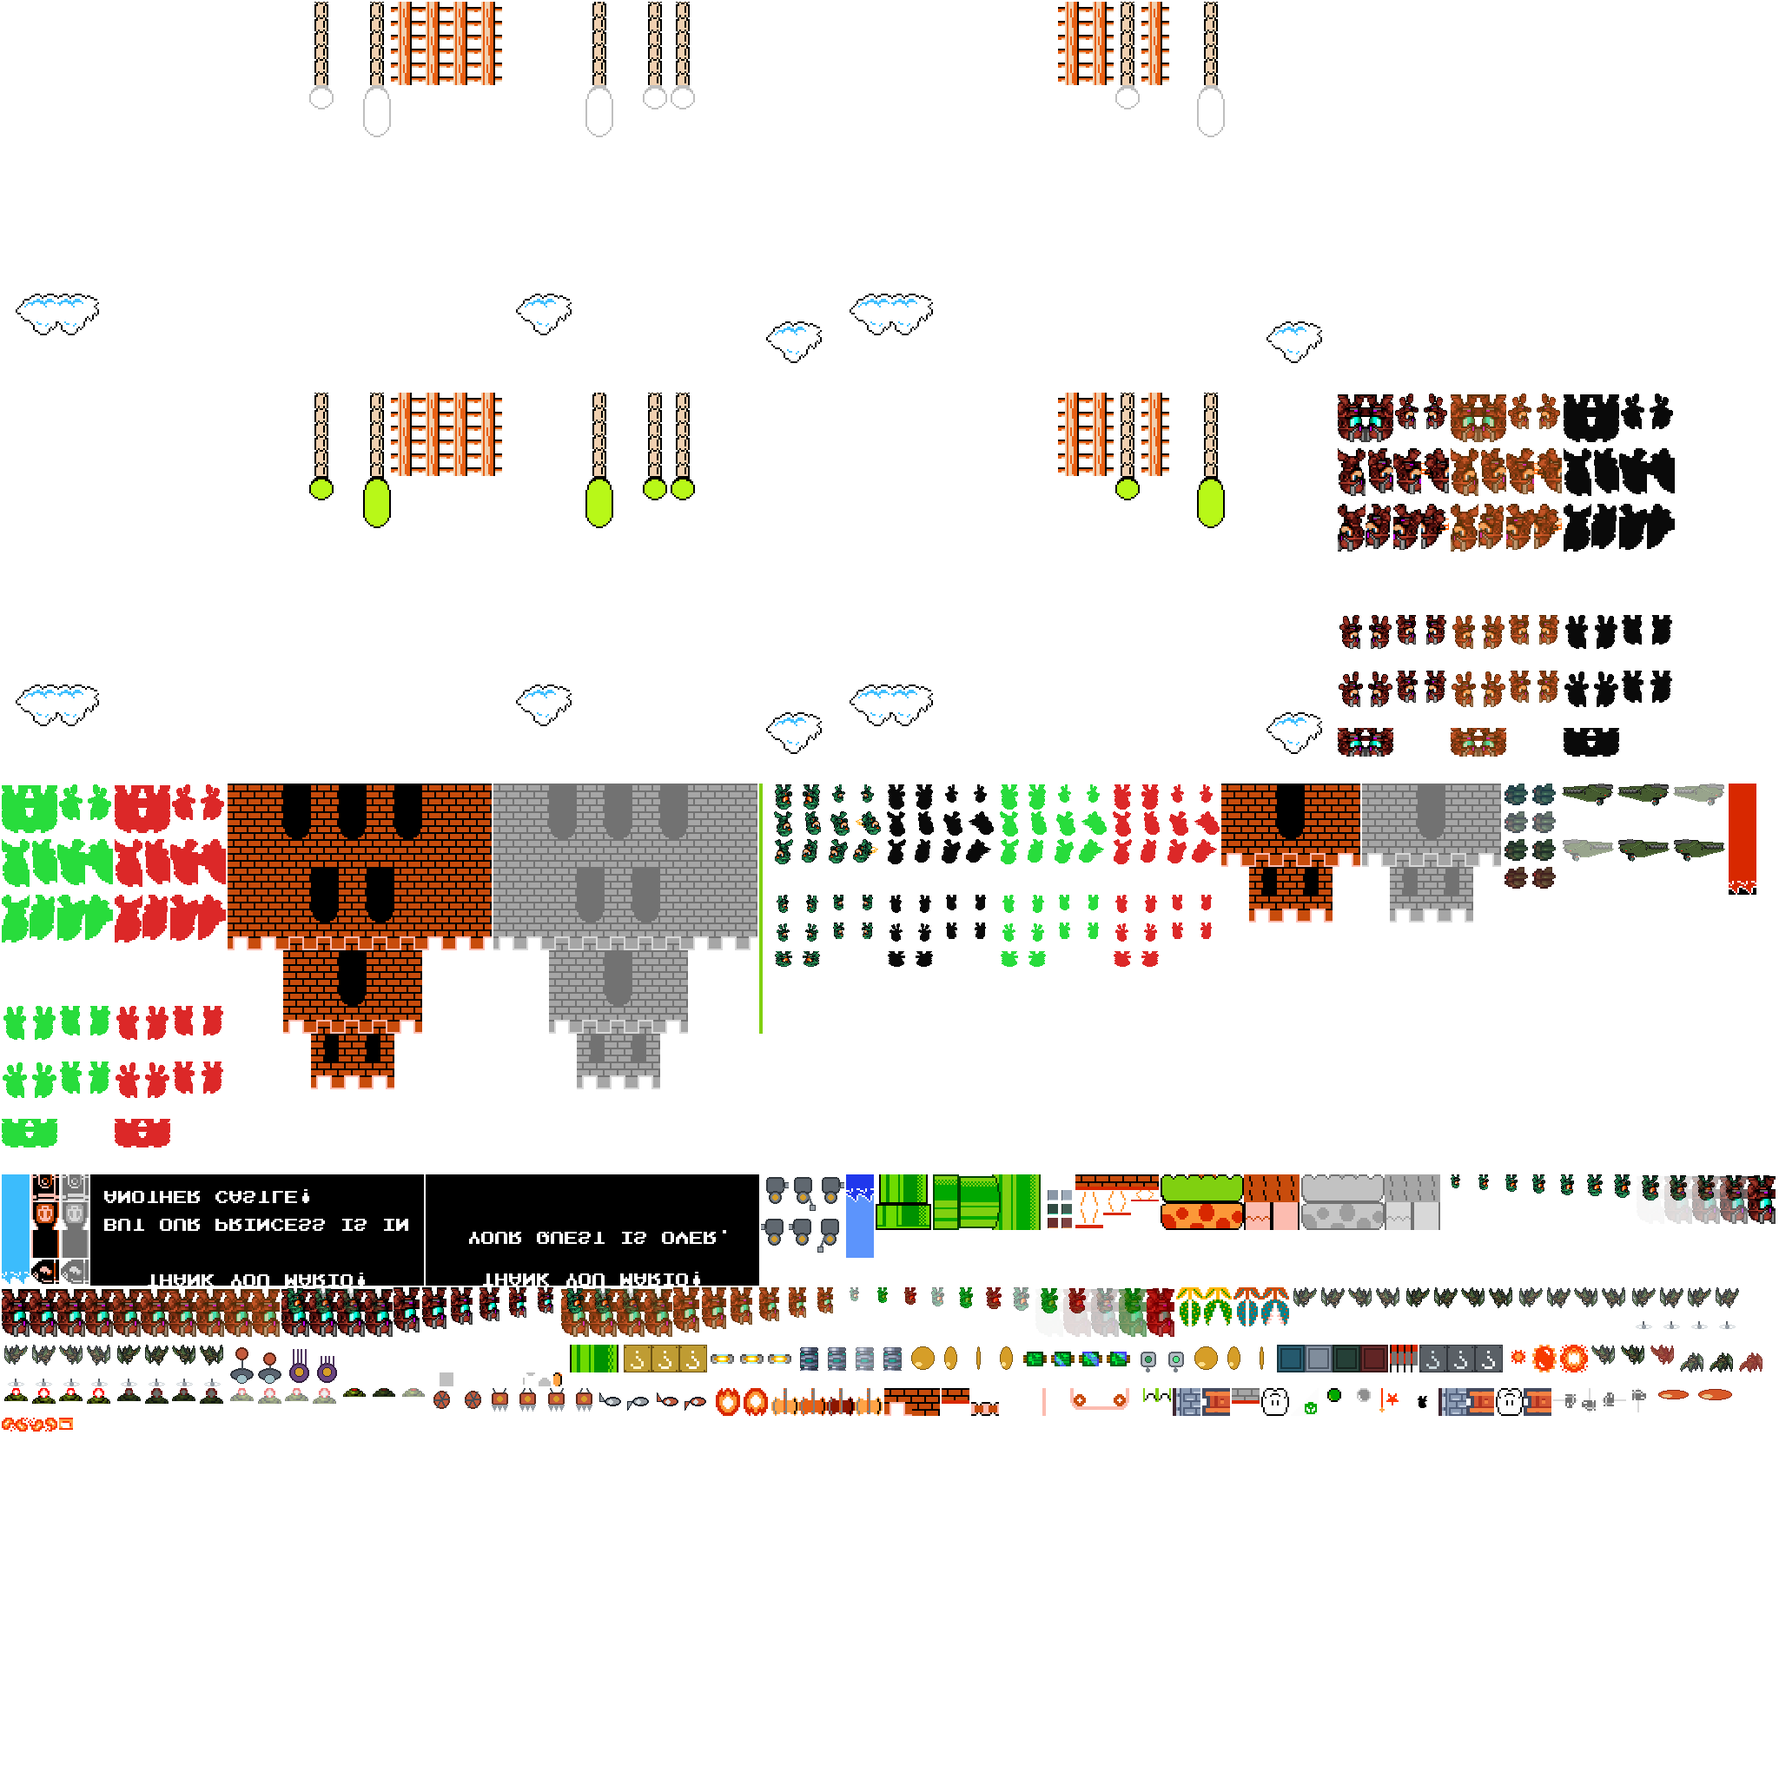
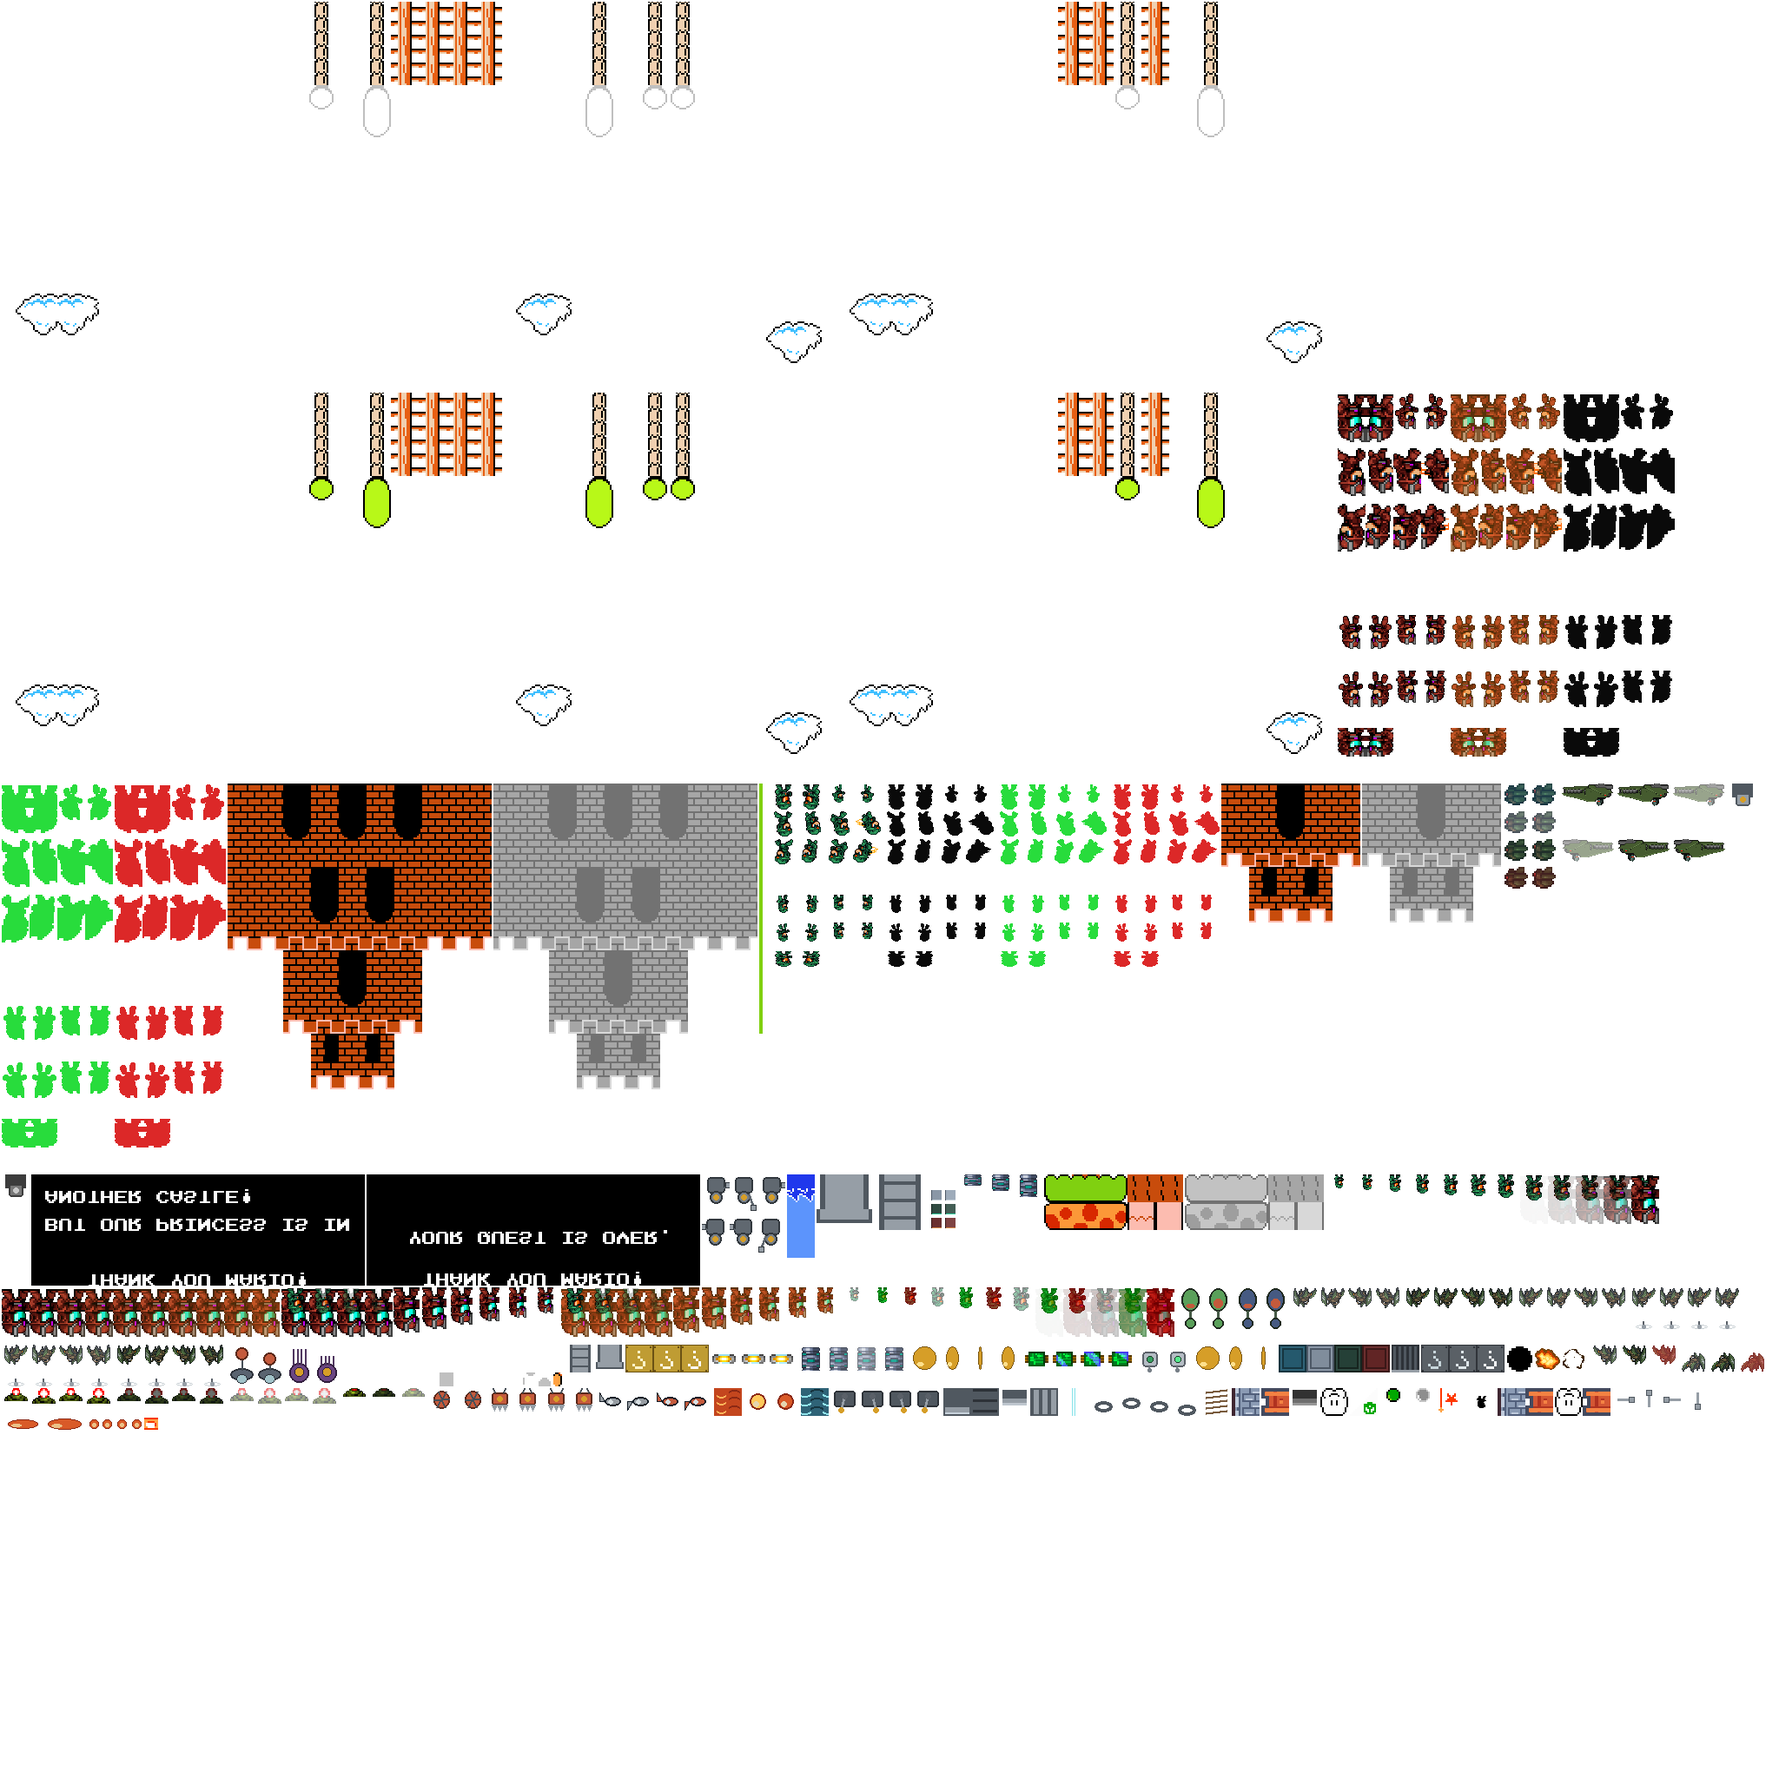
R.4: mechanisms/hazards/connective scenery (pumps, pipes, axe, wall, etc.)
fire_ball, lava/lava_ball/water, axe (a console/switch icon, per
KENNEY_ALL_IN_ONE_INDEX.md Sec3's own recommendation), wall,
rocket_launcher(+bw), bouncer(+bw)/spring (spring reuses the Charge coil
motif per the guide's own suggestion), wooden_bridge/white_line/chain/
rope/bridge_blocks (procedural connective geometry - chain/rope are
grep-confirmed dead code, done anyway for completeness), the 6-variant pump
family + hori_image (procedural riveted pipe, no clean pack source for
plain pipe segments), plant/plant_dark (procedural pipe creature),
explosion (real source match - Robot Master Series' own explode-Sheet,
verified crops caught the sheet's fully-faded last frame before it shipped
empty), bw_hammer (thrown wrench, matches Monkey's wrench prop).

Dimensions for every asset confirmed by reading the actual consuming class
(FireBall/LavaBall/Axe/LevelLoader's spawnWall/spawnRocketLauncher/Spring/
Pump/PiranhaPlant/MarioTileRegistry's HoriImage handler/Explosion/Hammer),
not assumed from the guide table.

Packed (96/122 overlay, up from 69/122, same page/region counts) and
compiled clean. Not yet on-device tested.

Claude-Session: https://claude.ai/code/session_01AwSuhSoywzR375iAH3BYRv

diff --git a/docs/assets/mario-sprites/ampere-staging/build_r4_mechanisms.py b/docs/assets/mario-sprites/ampere-staging/build_r4_mechanisms.py
@@ -1,0 +1,339 @@
+"""
+Step R.4, tier-3/4 table: mechanisms/hazards/connective scenery
+(docs/mario/MARIO_RESKIN_JUNIOR_DEV_GUIDE.md Sec5).
+
+Covers: fire_ball, lava/lava_ball/water, axe, wall, rocket_launcher(+bw),
+bouncer(+bw)/spring, wooden_bridge/white_line/chain/rope/bridge_blocks,
+pump family (6 theme variants), plant/plant_dark, hori_image, explosion,
+bw_hammer.
+
+Every dimension below is taken from reading the actual consuming Java class
+(FireBall/LavaBall/Axe/LevelLoader.spawnWall/spawnRocketLauncher/
+Spring/Pump/PiranhaPlant/MarioTileRegistry's HoriImage handler/Explosion/
+Hammer), not assumed from the guide table alone - see chat history for the
+exact grep/read-through. explosion reuses Robot Master Series' own
+explode-Sheet (a real source match, not procedural, per the guide's own
+recommendation for that one asset). Everything else here has no clean
+source-pack match (pipes/wall/bridge pieces are simple connective geometry,
+not the kind of thing a character-focused robot pack ships) - procedural,
+consistent with the panel/rivet motif already established for terrain.
+"""
+import sys
+sys.path.insert(0, "C:/workspace/morsecode/docs/assets/mario-sprites/ampere-staging")
+from sprite_tools import tint, mirror, build_sheet, glow_pulse, verified_crop, place_content
+from PIL import Image, ImageDraw
+import os
+
+OUT = "C:/workspace/morsecode/docs/assets/mario-sprites/reskin-source"
+ROBOT_PACK = "C:/workspace/robot_series_base_pack"
+
+METAL = (150, 158, 166)
+METAL_DARK = (80, 88, 96)
+METAL_DARKER = (45, 50, 56)
+
+# Reuse the exact per-theme accents already established for terrain (base,
+# dark, light) - keyed the same way pump's regionFor() picks a theme.
+THEME_ACCENT = {
+    "": (138, 151, 166),
+    "_castle": (217, 140, 74),
+    "_sea": (127, 224, 232),
+}
+
+
+def canvas(w, h):
+    return Image.new("RGBA", (w, h), (0, 0, 0, 0))
+
+
+def rect(im, x0, y0, x1, y1, color):
+    d = ImageDraw.Draw(im)
+    d.rectangle((x0, y0, x1 - 1, y1 - 1), fill=color + (255,))
+
+
+# --------------------------------------------------------------- fire_ball
+
+def build_fire_ball():
+    print("FireBall (projectile, 16x16/frame x4 - verified against FireBall.java):")
+    def frame(i):
+        im = canvas(16, 16)
+        d = ImageDraw.Draw(im)
+        wob = [0, 1, 0, -1][i % 4]
+        d.ellipse((3 - wob, 3, 13 - wob, 13), fill=(217, 90, 40, 255), outline=(140, 40, 20, 255))
+        d.ellipse((6 - wob, 5, 10 - wob, 9), fill=(255, 200, 120, 230))
+        return im
+
+    build_sheet(16, 16, [frame(i) for i in range(4)], 4, 1, f"{OUT}/FireBall.png")
+
+
+# -------------------------------------------------------- lava/lava_ball/water
+
+def build_lava():
+    print("Lava/LavaBall/Water (procedural hazard tiles):")
+    im = canvas(32, 32)
+    d = ImageDraw.Draw(im)
+    rect(im, 0, 0, 32, 32, (196, 70, 30))
+    for i, y in enumerate((6, 16, 24)):
+        d.arc((2, y - 4, 14, y + 4), 200, 340, fill=(255, 180, 90, 255), width=2)
+        d.arc((16, y - 3, 30, y + 5), 20, 160, fill=(140, 40, 20, 255), width=2)
+    im.save(f"{OUT}/Lava.png")
+    print("wrote", f"{OUT}/Lava.png")
+
+    def ball(rising):
+        b = canvas(32, 32)
+        d2 = ImageDraw.Draw(b)
+        c = (255, 200, 90, 255) if rising else (217, 90, 40, 255)
+        d2.ellipse((7, 7, 25, 25), fill=c, outline=(140, 40, 20, 255), width=2)
+        d2.ellipse((11, 10, 17, 16), fill=(255, 230, 170, 220))
+        return b
+
+    build_sheet(32, 32, [ball(True), ball(False)], 2, 1, f"{OUT}/LavaBall.png")
+
+    water = canvas(32, 32)
+    d3 = ImageDraw.Draw(water)
+    rect(water, 0, 0, 32, 32, (47, 99, 119))
+    for y in (5, 15, 25):
+        d3.arc((-4, y - 4, 12, y + 4), 200, 340, fill=(127, 224, 232, 220), width=2)
+        d3.arc((10, y - 3, 26, y + 5), 20, 160, fill=(22, 53, 64, 255), width=2)
+        d3.arc((24, y - 4, 40, y + 4), 200, 340, fill=(127, 224, 232, 220), width=2)
+    water.save(f"{OUT}/Water.png")
+    print("wrote", f"{OUT}/Water.png")
+
+
+# --------------------------------------------------------------------- axe
+
+def build_axe():
+    print("Axe (bridge-cut lever -> console/switch icon, 32x32 x4, per KENNEY_ALL_IN_ONE_INDEX.md Sec3's own recommendation):")
+    def frame(pulled):
+        im = canvas(32, 32)
+        d = ImageDraw.Draw(im)
+        d.rounded_rectangle((4, 10, 28, 28), radius=3, fill=METAL_DARK + (255,), outline=METAL_DARKER + (255,), width=2)
+        lever_x = 20 if pulled else 12
+        d.line((16, 22, lever_x, 6), fill=METAL + (255,), width=3)
+        d.ellipse((lever_x - 3, 3, lever_x + 3, 9), fill=(214, 158, 40, 255))
+        d.ellipse((13, 19, 19, 25), fill=(90, 96, 104, 255))
+        return im
+
+    build_sheet(32, 32, [frame(False), frame(True), frame(True), frame(False)], 4, 1, f"{OUT}/Axe.png")
+
+
+# --------------------------------------------------------------------- wall
+
+def build_wall():
+    print("Wall (decorative vertical strip, 32x32 x2 - cap + repeating body):")
+    cap = canvas(32, 32)
+    rect(cap, 0, 0, 32, 32, METAL_DARK)
+    rect(cap, 2, 2, 30, 10, METAL)
+    rect(cap, 2, 2, 30, 4, (199, 210, 219))
+    body = canvas(32, 32)
+    rect(body, 0, 0, 32, 32, METAL_DARK)
+    for y in (4, 16, 28):
+        rect(body, 2, y, 30, y + 3, METAL_DARKER)
+    build_sheet(32, 32, [cap, body], 2, 1, f"{OUT}/Wall.png")
+
+
+# ------------------------------------------------------------ rocket launcher
+
+def build_rocket_launcher(out_name, base_color, dark_color, accent):
+    print(f"{out_name} (turret, 32x32 x4 rows - rows 0-2 used per LevelLoader.spawnRocketLauncher):")
+    head = canvas(32, 32)
+    d = ImageDraw.Draw(head)
+    rect(head, 4, 16, 28, 32, dark_color)
+    d.rounded_rectangle((8, 6, 24, 20), radius=3, fill=base_color + (255,), outline=dark_color + (255,), width=2)
+    d.ellipse((13, 10, 19, 16), fill=accent + (255,))
+    body_a = canvas(32, 32)
+    rect(body_a, 4, 0, 28, 32, dark_color)
+    rect(body_a, 6, 4, 26, 28, base_color)
+    body_b = canvas(32, 32)
+    rect(body_b, 4, 0, 28, 32, dark_color)
+    rect(body_b, 6, 2, 26, 30, tuple(max(0, c - 15) for c in base_color))
+    unused = body_b
+    build_sheet(32, 32, [head, body_a, body_b, unused], 1, 4, f"{OUT}/{out_name}")
+
+
+# -------------------------------------------------------- bouncer / spring
+
+def build_bouncer_and_spring():
+    print("Bouncer/bw_bouncer (launch pad, 32x32) + Spring (coil, 32x64 x3 - reuses Charge coil motif):")
+    def pad(base, dark):
+        im = canvas(32, 32)
+        rect(im, 2, 20, 30, 30, dark)
+        rect(im, 2, 12, 30, 20, base)
+        rect(im, 2, 12, 30, 15, tuple(min(255, c + 40) for c in base))
+        return im
+
+    pad(METAL, METAL_DARK).save(f"{OUT}/Bouncer.png")
+    print("wrote", f"{OUT}/Bouncer.png")
+    os.makedirs(f"{OUT}/CloudsNight", exist_ok=True)
+    pad((110, 110, 110), (50, 50, 50)).save(f"{OUT}/CloudsNight/Bouncer.png")
+    print("wrote", f"{OUT}/CloudsNight/Bouncer.png")
+
+    gate = Image.open(f"{ROBOT_PACK}/other/gate.png").convert("RGBA")
+    coil_base = place_content(verified_crop(gate, (0, 8, 16, 26), "spring_coil"), 32, 32, fill=0.8, anchor="bottom")
+
+    def squish(h_frac):
+        # Squash the coil vertically into the bottom of a 32x64 cell -
+        # simulates a compressed spring at rest (0) growing back up (1).
+        src_h = round(32 * h_frac)
+        scaled = coil_base.resize((32, max(4, src_h)), Image.NEAREST)
+        cell = canvas(32, 64)
+        cell.paste(scaled, (0, 64 - scaled.height), scaled)
+        return cell
+
+    build_sheet(32, 64, [squish(0.5), squish(0.75), squish(1.0)], 3, 1, f"{OUT}/Spring.png")
+
+
+# --------------------------------------- wooden_bridge / white_line / chain / rope / bridge_blocks
+
+def build_connective_pieces():
+    print("WoodenBridge/WhiteLine/Chain/Rope/BridgeBloks (procedural connective geometry):")
+    bridge = canvas(32, 32)
+    rect(bridge, 0, 0, 32, 32, METAL_DARK)
+    for x in (4, 14, 24):
+        rect(bridge, x, 2, x + 6, 30, METAL)
+    bridge.save(f"{OUT}/WoodenBridge.png")
+    print("wrote", f"{OUT}/WoodenBridge.png")
+
+    # Thin vertical energy-line tile, stretched by the engine to 13 tiles tall.
+    line = canvas(32, 32)
+    d = ImageDraw.Draw(line)
+    d.rectangle((14, 0, 17, 31), fill=(127, 224, 232, 230))
+    d.rectangle((15, 0, 16, 31), fill=(230, 250, 252, 255))
+    line.save(f"{OUT}/WhiteLine.png")
+    print("wrote", f"{OUT}/WhiteLine.png")
+
+    def link(offset):
+        im = canvas(32, 32)
+        d2 = ImageDraw.Draw(im)
+        d2.ellipse((6, 4 + offset, 26, 16 + offset), outline=METAL_DARK + (255,), width=4)
+        return im
+
+    build_sheet(32, 32, [link(0), link(4), link(0), link(-4)], 4, 1, f"{OUT}/Chain.png")
+
+    rope = canvas(32, 32)
+    d3 = ImageDraw.Draw(rope)
+    for y in range(2, 32, 6):
+        d3.line((4, y, 28, y + 3), fill=(120, 90, 60, 255), width=3)
+    rope.save(f"{OUT}/Rope.png")
+    print("wrote", f"{OUT}/Rope.png")
+
+    grate = canvas(32, 32)
+    rect(grate, 0, 0, 32, 32, METAL_DARKER)
+    for x in range(2, 30, 6):
+        rect(grate, x, 2, x + 3, 30, METAL_DARK)
+    rect(grate, 0, 0, 32, 3, METAL)
+    grate.save(f"{OUT}/BridgeBloks.png")
+    print("wrote", f"{OUT}/BridgeBloks.png")
+
+
+# ------------------------------------------------------------- pump family
+
+def pump_body(base, dark):
+    im = canvas(32, 32)
+    rect(im, 4, 0, 28, 32, dark)
+    rect(im, 7, 0, 25, 32, base)
+    for y in (6, 16, 26):
+        rect(im, 7, y, 25, y + 2, dark)
+    return im
+
+
+def pump_top(base, dark):
+    im = canvas(32, 32)
+    rect(im, 2, 10, 30, 32, dark)
+    rect(im, 5, 12, 27, 32, base)
+    rect(im, 0, 4, 32, 12, dark)
+    rect(im, 2, 6, 30, 12, base)
+    return im
+
+
+def build_pumps():
+    print("Pump family (procedural riveted pipe, 6 theme variants + hori_image):")
+    themes = {
+        "": (METAL, METAL_DARK),
+        " Castle": ((217, 140, 74), (107, 47, 47)),
+        " Sea": ((127, 224, 232), (47, 99, 119)),
+    }
+    for suffix, (base, dark) in themes.items():
+        pump_body(base, dark).save(f"{OUT}/pump{suffix}.png")
+        print("wrote", f"{OUT}/pump{suffix}.png")
+        pump_top(base, dark).save(f"{OUT}/pump top{suffix}.png")
+        print("wrote", f"{OUT}/pump top{suffix}.png")
+
+    # HoriImage: two 2-tile (64x64) pieces side by side (MarioTileRegistry's
+    # own HoriImage handler splits at pieceSize=tileSize*2) - a wider pipe
+    # opening built from the same motif, scaled up.
+    left = pump_top(METAL, METAL_DARK).resize((64, 64), Image.NEAREST)
+    right = pump_body(METAL, METAL_DARK).resize((64, 64), Image.NEAREST)
+    build_sheet(64, 64, [left, right], 2, 1, f"{OUT}/HoriImage.png")
+
+
+# --------------------------------------------------------------- plant family
+
+def build_plants():
+    print("Plant/plant_dark (pipe creature, 32x48 x2 - procedural):")
+    def pose(color, open_mouth):
+        im = canvas(32, 48)
+        d = ImageDraw.Draw(im)
+        d.ellipse((6, 20, 26, 46), fill=color + (255,), outline=(30, 40, 30, 255), width=2)
+        mouth_h = 10 if open_mouth else 4
+        d.ellipse((11, 24, 21, 24 + mouth_h), fill=(196, 90, 60, 255))
+        d.line((16, 20, 16, 4), fill=(70, 90, 70, 255), width=3)
+        d.ellipse((10, 0, 22, 12), fill=color + (255,), outline=(30, 40, 30, 255), width=2)
+        return im
+
+    build_sheet(32, 48, [pose((90, 160, 90), False), pose((90, 160, 90), True)], 2, 1, f"{OUT}/plant.png")
+    build_sheet(32, 48, [pose((70, 90, 130), False), pose((70, 90, 130), True)], 2, 1, f"{OUT}/plantdark.png")
+
+
+# --------------------------------------------------------------- explosion
+
+def build_explosion():
+    print("Explosion (Robot Master Series explode sheet, verified crops):")
+    sheet = Image.open(f"{ROBOT_PACK}/other/explode-Sheet[64height64wide].png").convert("RGBA")
+    fw, fh = 64, 64
+    n = sheet.width // fw
+    assert n >= 3, f"expected >=3 explosion frames, got {n}"
+    # Frame n-1 is fully faded out (getbbox()==None, confirmed while writing
+    # this) - picking growth frames only (skip the empty tail) so all 3 are
+    # visible content, matching the Golden Rule's own warning about not
+    # trusting an index without checking its actual crop.
+    picks = [0, (n - 2) // 2, n - 2]
+    frames = [
+        place_content(verified_crop(sheet, (i * fw, 0, (i + 1) * fw, fh), f"explode_f{i}"), 32, 32, fill=0.9)
+        for i in picks
+    ]
+    build_sheet(32, 32, frames, 3, 1, f"{OUT}/Explosion.png")
+
+
+# --------------------------------------------------------------- bw_hammer
+
+def build_bw_hammer():
+    print("bw_hammer (thrown wrench, 28x28 x4 - matches Monkey's wrench prop):")
+    def frame(angle_step):
+        im = canvas(28, 28)
+        d = ImageDraw.Draw(im)
+        cx, cy = 14, 14
+        import math
+        ang = angle_step * 90
+        dx = round(8 * math.cos(math.radians(ang)))
+        dy = round(8 * math.sin(math.radians(ang)))
+        d.line((cx - dx, cy - dy, cx + dx, cy + dy), fill=METAL + (255,), width=3)
+        d.rectangle((cx + dx - 3, cy + dy - 3, cx + dx + 3, cy + dy + 3), fill=(150, 158, 166, 255), outline=METAL_DARK + (255,))
+        return im
+
+    build_sheet(28, 28, [frame(i) for i in range(4)], 4, 1, f"{OUT}/CloudsNight/Hammer.png")
+
+
+if __name__ == "__main__":
+    os.makedirs(OUT, exist_ok=True)
+    os.makedirs(f"{OUT}/CloudsNight", exist_ok=True)
+    build_fire_ball()
+    build_lava()
+    build_axe()
+    build_wall()
+    build_rocket_launcher("RocketLauncher.png", METAL, METAL_DARK, (214, 158, 40))
+    build_rocket_launcher("CloudsNight/RocketLauncher.png", (120, 120, 120), (60, 60, 60), (200, 200, 200))
+    build_bouncer_and_spring()
+    build_connective_pieces()
+    build_pumps()
+    build_plants()
+    build_explosion()
+    build_bw_hammer()
